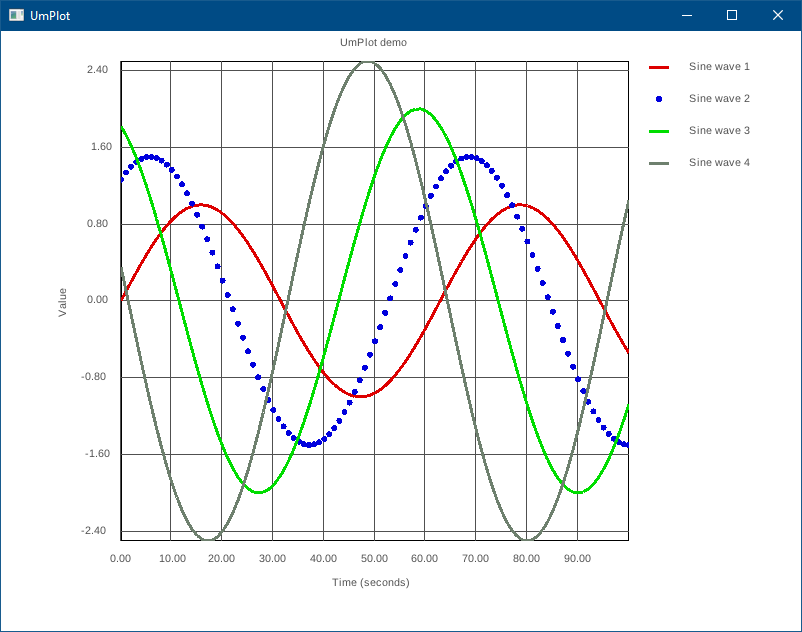
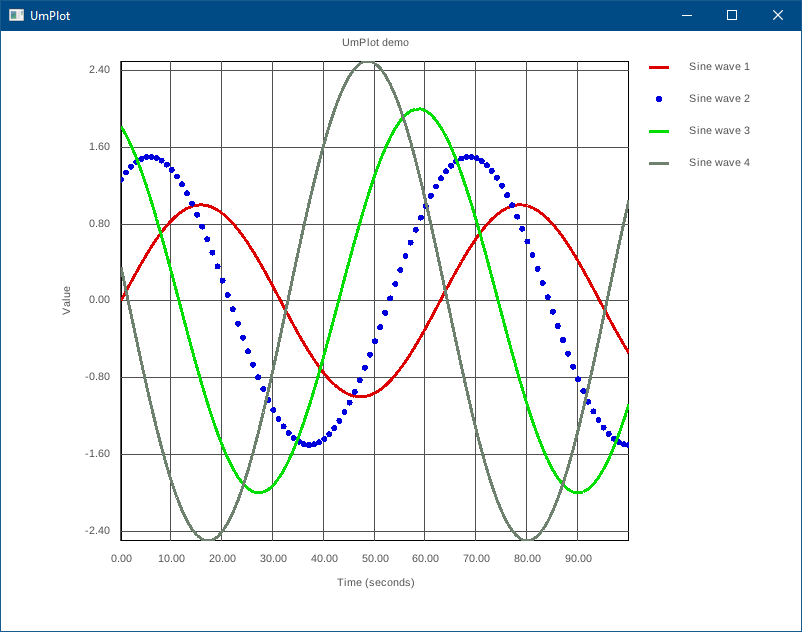
Fix font width bug

diff --git a/umplot.c b/umplot.c
@@ -284,7 +284,7 @@ static void drawGrid(const Plot *plot, const ScreenTransform *transform, const F
         if (plot->grid.labelled)
         {
             const char *label = TextFormat((xStep > 0.01) ? "%.2f" : "%.4f", startPt.x + i * xStep);
-            const int labelWidth = MeasureText(label, plot->grid.fontSize);
+            const int labelWidth = MeasureTextEx(*font, label, plot->grid.fontSize, 1).x;
 
             const int labelX = x - labelWidth / 2;
             const int labelY = clientRect.y + clientRect.height + plot->grid.fontSize;
@@ -304,7 +304,7 @@ static void drawGrid(const Plot *plot, const ScreenTransform *transform, const F
         if (plot->grid.labelled)
         {
             const char *label = TextFormat((yStep > 0.01) ? "%.2f" : "%.4f", startPt.y + j * yStep);
-            const int labelWidth = MeasureText(label, plot->grid.fontSize);
+            const int labelWidth = MeasureTextEx(*font, label, plot->grid.fontSize, 1).x;
 
             const int labelX = clientRect.x - labelWidth - plot->grid.fontSize;
             const int labelY = y - plot->grid.fontSize / 2;
@@ -328,7 +328,7 @@ static void drawTitles(const Plot *plot, const ScreenTransform *transform, const
     // Horizontal axis
     if (plot->titles.x && TextLength(plot->titles.x) > 0)
     {
-        const int titleWidth = MeasureText(plot->titles.x, plot->titles.fontSize);
+        const int titleWidth = MeasureTextEx(*font, plot->titles.x, plot->titles.fontSize, 1).x;
 
         const int titleX = clientRect.x + clientRect.width / 2 - titleWidth / 2;
         const int titleY = clientRect.y + clientRect.height + 2 * plot->grid.fontSize + plot->titles.fontSize;
@@ -339,7 +339,7 @@ static void drawTitles(const Plot *plot, const ScreenTransform *transform, const
     // Vertical axis
     if (plot->titles.y && TextLength(plot->titles.y) > 0)
     {
-        const int titleWidth = MeasureText(plot->titles.y, plot->titles.fontSize);
+        const int titleWidth = MeasureTextEx(*font, plot->titles.y, plot->titles.fontSize, 1).x;
 
         const int titleX = clientRect.x - 2 * plot->grid.fontSize - plot->titles.fontSize - maxYLabelWidth;
         const int titleY = clientRect.y + clientRect.height / 2 + titleWidth / 2;
@@ -350,7 +350,7 @@ static void drawTitles(const Plot *plot, const ScreenTransform *transform, const
     // Graph
     if (plot->titles.graph && TextLength(plot->titles.graph) > 0)
     {
-        const int titleWidth = MeasureText(plot->titles.graph, plot->titles.fontSize);
+        const int titleWidth = MeasureTextEx(*font, plot->titles.graph, plot->titles.fontSize, 1).x;
 
         const int titleX = clientRect.x + clientRect.width / 2 - titleWidth / 2;
         const int titleY = clientRect.y - 2 * plot->titles.fontSize;
